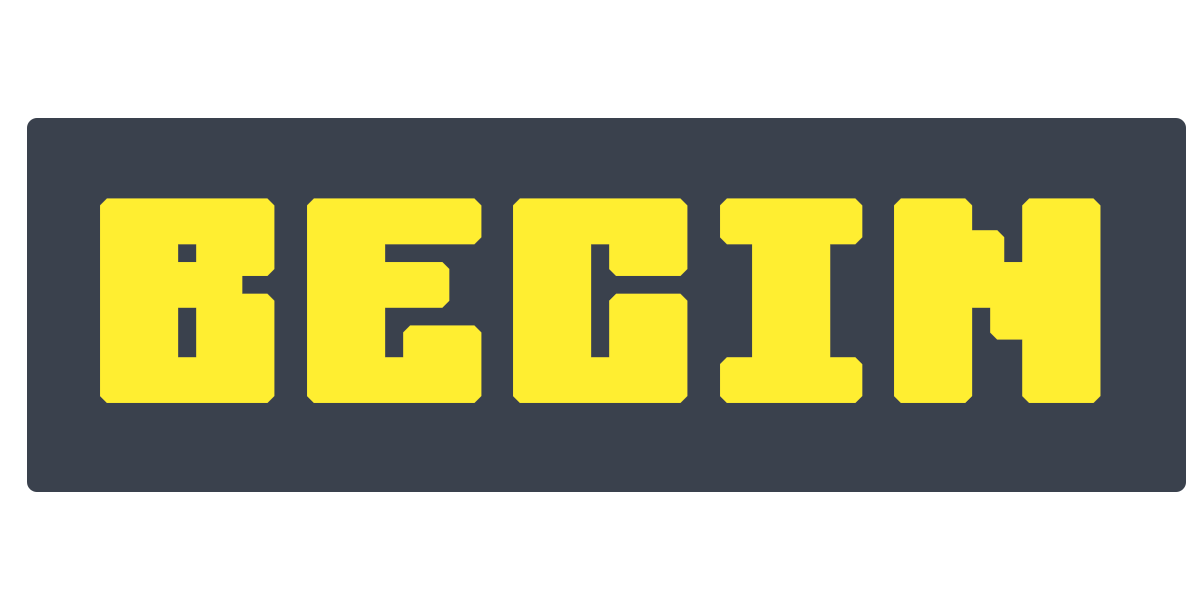
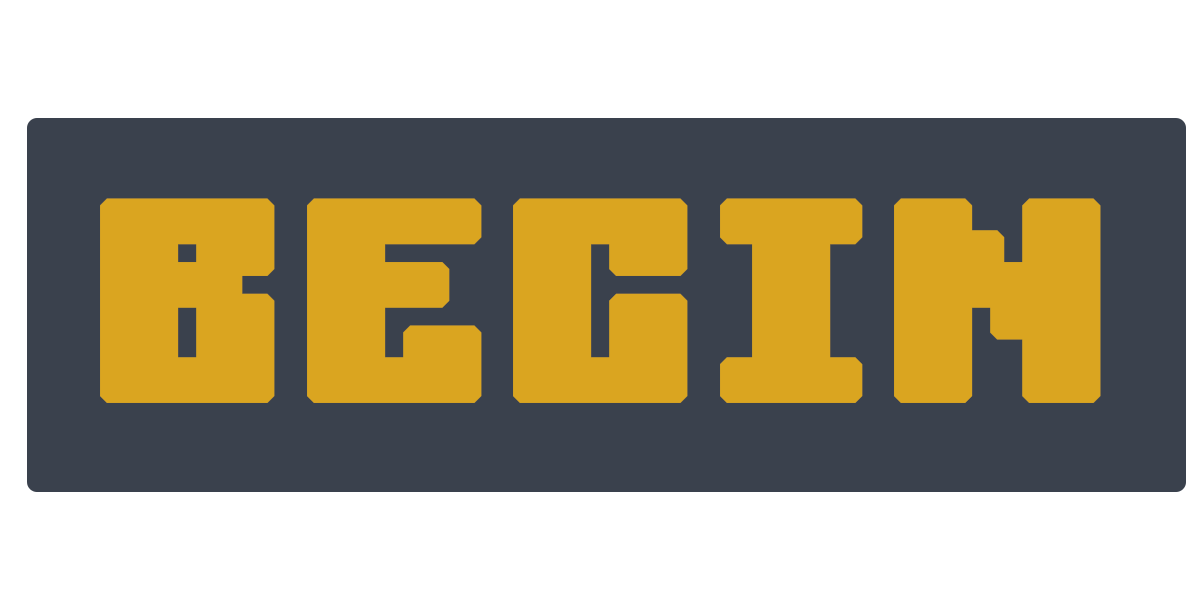
changed backstory CSS

Changed region(s): [[0.0617, 0.33, 0.925, 0.69]]

diff --git a/styles.css b/styles.css
@@ -43,7 +43,7 @@ body, html
   height: 100%;
   font-family: "Droid Sans", arial, verdana, sans-serif;
 	font-weight: 700;
-	color: #ff6;
+	color: #daa520;
 	background-color: #000;
 	overflow: hidden;
 }
@@ -160,6 +160,7 @@ h1 sub
 	-ms-transform: perspective(60vh) rotateX(25deg);
 	-o-transform: perspective(60vh) rotateX(25deg);
 	transform: perspective(60vh) rotateX(25deg);
+	text-shadow: 6px 6px black;
 }
 
 #titles:after
@@ -199,11 +200,11 @@ h1 sub
 {
 	position: absolute;
 	top: 100%;
-	-webkit-animation: scroll 200s linear 0s infinite;
-	-moz-animation: scroll 200s linear 0s infinite;
-	-ms-animation: scroll 200s linear 0s infinite;
-	-o-animation: scroll 200s linear 0s infinite;
-	animation: scroll 200s linear 0s infinite;
+	-webkit-animation: scroll 180s linear 0s infinite;
+	-moz-animation: scroll 180s linear 0s infinite;
+	-ms-animation: scroll 180s linear 0s infinite;
+	-o-animation: scroll 180s linear 0s infinite;
+	animation: scroll 180s linear 0s infinite;
 }
 
 /* animation */
